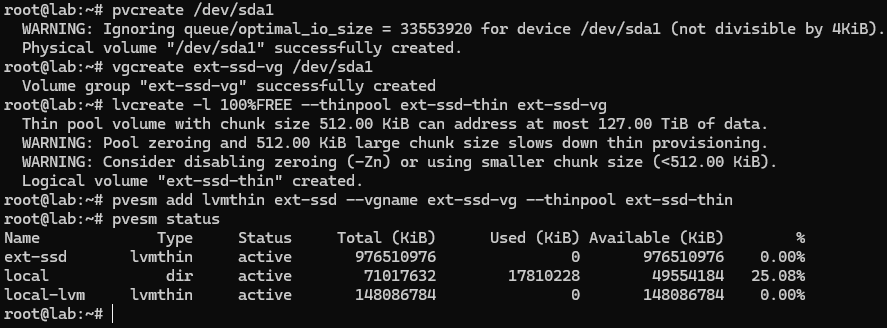
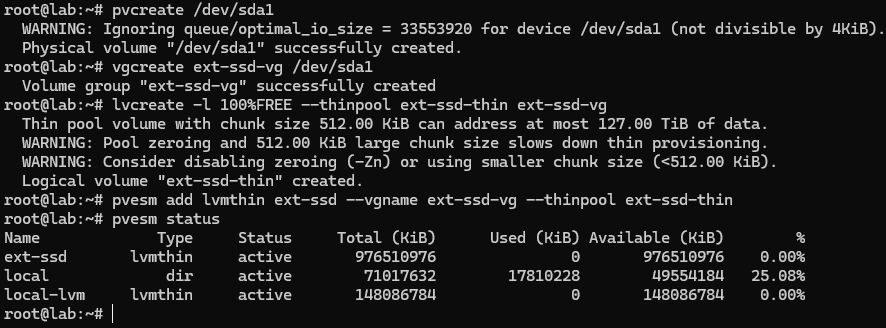
1

diff --git a/05_deploying_Security_Onion/Instructions.md b/05_deploying_Security_Onion/Instructions.md
@@ -95,3 +95,11 @@ qm create 900 \
   --agent 1 \
   --onboot 1
 '''
+
+![Disk](/images/Proxmox/Provisioning.png)
+
+You can see the Proxmox backend doing exactly what it was supposed to do:
+
+* Logical volume "vm-900-disk-0" created.
+* scsi0: successfully created disk...
+
